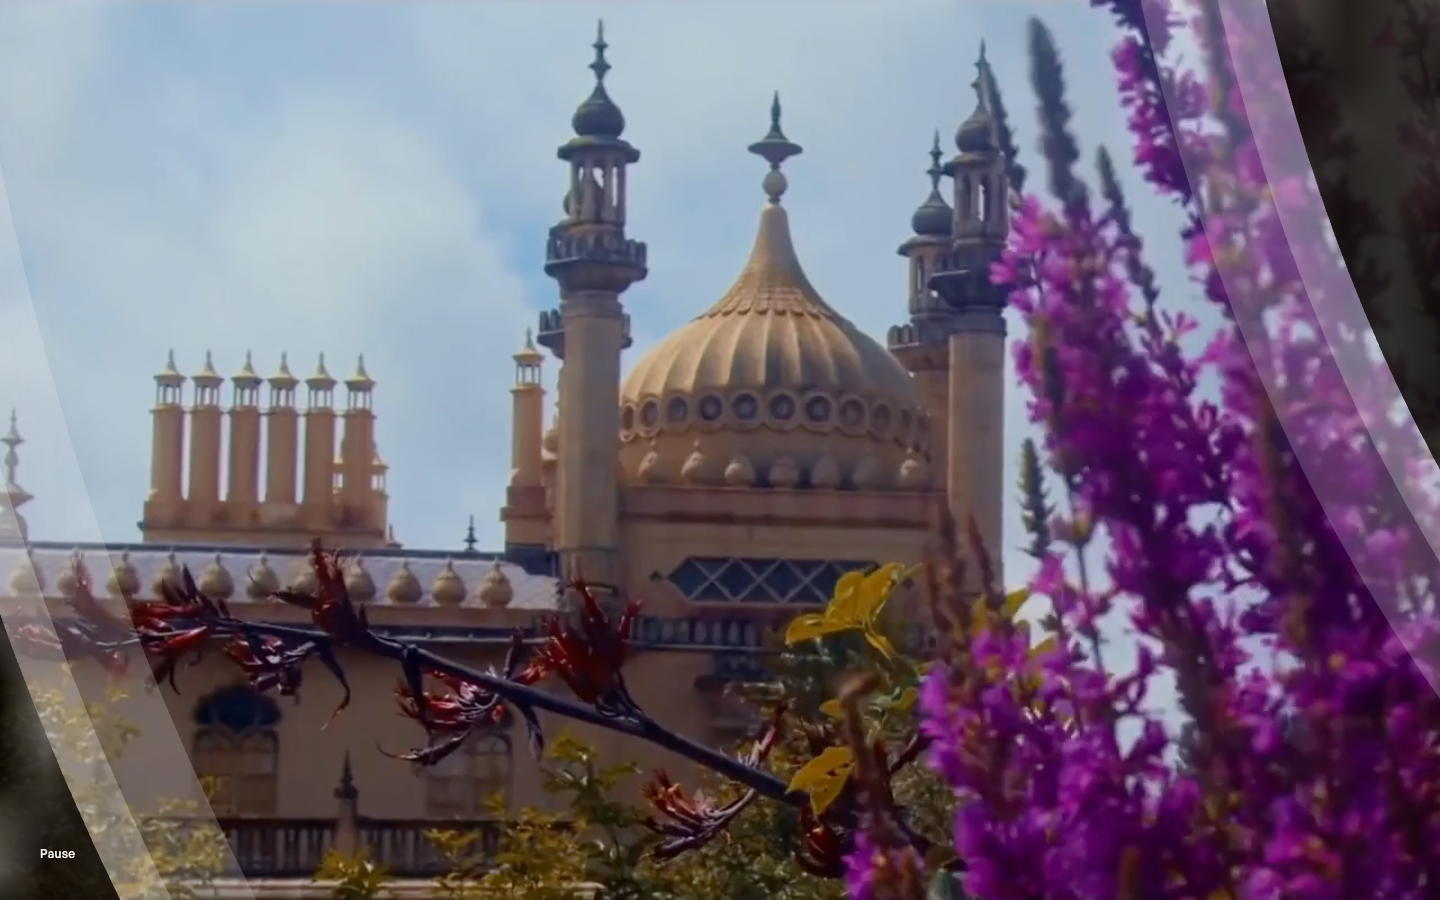
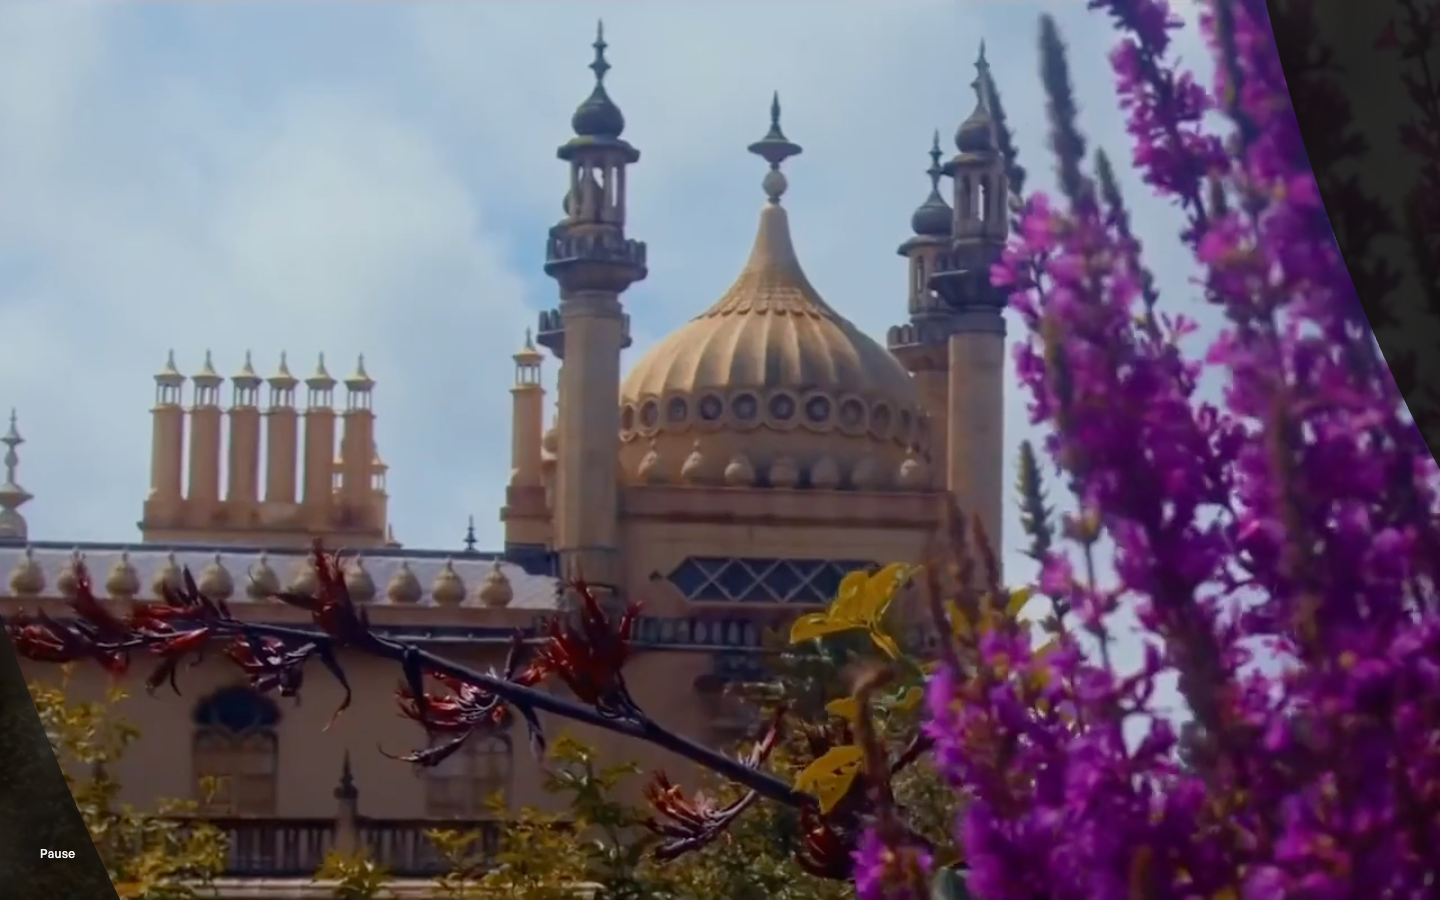
Anwar R18's three hero fixes, built by Nadir (R19 part 4, Opus). The pale letter lip fades out between p .32 and .40, the wall and the light spill drop into shadow from p .15 to .32 so the film is the brightest thing inside the O, and with reduced motion on a Play word shows bottom left (one press p

diff --git a/hero-journey.js b/hero-journey.js
@@ -23,6 +23,7 @@
   if(reduce||still){ reel.removeAttribute('autoplay'); reel.pause(); }
   function label(){ var v=cur(), on=!v.paused; btn.textContent=on?'Pause':'Play'; btn.setAttribute('aria-label',on?'Pause the film':'Play the film'); }
   [reel,lane].forEach(function(v){ v.addEventListener('play',label); v.addEventListener('pause',label); });
+  reel.addEventListener('play',function(){ if(J.mode!=='still') return; (function loop(){ if(reel.paused||J.mode!=='still') return; drawSpill(); requestAnimationFrame(loop); })(); });   /* R19: in reduced motion the spill follows the reel only while it plays */
   btn.addEventListener('click',function(){ var v=cur(); if(v.paused){ userPaused=false; v.play().catch(function(){}); } else { userPaused=true; v.pause(); } label(); });
   function want(v){ if(!userPaused&&seen&&!reduce&&!still) v.play().catch(function(){}); }
   if('IntersectionObserver' in window&&!still) new IntersectionObserver(function(es){ seen=es[0].isIntersecting; if(seen) want(cur()); else cur().pause(); },{threshold:0}).observe(stage);
@@ -48,6 +49,9 @@
     parts.cut.style.opacity=String(fade); parts.cut.style.visibility=fade>0?'visible':'hidden';
     parts.band.style.opacity=String(1-seg(p,.3,.38));   /* P3: was .35 to .5; a half-faded band read as grey veils over the film at .42, so it now clears in one short step as the camera passes through the wall */
     parts.band.style.transform='translate3d('+((3+sx*T*.6)*s).toFixed(2)+'px,'+((4+sy*T*.5)*s).toFixed(2)+'px,0)';
+    var dark=seg(p,.15,.32);   /* R19: the wall drops into shadow as the camera enters, so the film is the brightest thing and the raster's staircase sinks; the spill goes with it */
+    parts.wall.style.opacity=String(1-.75*dark); spill.style.opacity=String(SPILL*(1-dark));
+    parts.lip.style.opacity=String(lay.hollow.lip*(1-seg(p,.32,.40)));   /* R19: the lip fades before the zoom turns its rim into a pale glass band */
     J.s=s; J.e=e;
   }
   function setP(v){ J.p=v; apply(v); }
@@ -79,7 +83,7 @@
       mask=Cut.spillMask(lay,wc,Q,REACH); lastT=-1;
       cut.appendChild(pl.band); cut.appendChild(pl.face); cut.appendChild(spill); cut.appendChild(pl.top);
       host.innerHTML=''; host.appendChild(box);
-      parts={cut:cut,band:pl.band,face:pl.face,top:pl.top,all:pl.all};
+      parts={cut:cut,band:pl.band,face:pl.face,top:pl.top,lip:pl.lip,wall:pl.wall,all:pl.all};
       scene.classList.add('built'); J.hole=hole; J.S=S; J.lay={W:W,H:H,L6:lay.L6,o:lay.o}; J.check=spacingCheck();
       apply(J.p); drawSpill();
     });
@@ -93,7 +97,7 @@
   function tick(){ if(ptr.has&&J.p<.35){ var nx=sx+(ptr.x-sx)*.06, ny=sy+(ptr.y-sy)*.06; if(Math.abs(nx-sx)+Math.abs(ny-sy)>1e-4){ sx=nx; sy=ny; apply(J.p); } } drawSpill(); requestAnimationFrame(tick); }
 
   function start(){
-    if(reduce||still||!window.gsap||!window.ScrollTrigger){ root.classList.add('plate-still'); J.mode='still'; setP(0); label(); return; }
+    if(reduce||still||!window.gsap||!window.ScrollTrigger){ root.classList.add('plate-still'); if(still) root.classList.add('plate-render'); J.mode='still'; setP(0); label(); return; }   /* R19: only a full-page render (full=) hides the word; a reduced-motion visitor sees Play */
     root.classList.add('journey-on'); gsap.registerPlugin(ScrollTrigger);
     if(window.Lenis&&!render){ var lenis=new Lenis({lerp:.09,wheelMultiplier:.9}); lenis.on('scroll',ScrollTrigger.update); gsap.ticker.add(function(t){ lenis.raf(t*1000); }); gsap.ticker.lagSmoothing(0); J.lenis=true; }
     ScrollTrigger.create({trigger:scene,start:'top top',end:'bottom bottom',scrub:true,onUpdate:function(st){ setP(st.progress); }});

diff --git a/hero-cut.js b/hero-cut.js
@@ -102,7 +102,7 @@
     lay.rows.forEach(function(r){ var f=fontOf(r.font); r.toks.forEach(function(t){ if(t.k==='r') return;
       var e=el('text',{x:t.x,y:r.y,'font-family':f.f,'font-weight':f.w,'font-size':f.s,'letter-spacing':r.ls,fill:t.k==='g'?'#E27F22':'#F2F2F0','fill-opacity':t.k==='g'?1:t.a},top); e.textContent=t.t; }); });
     lay.who.forEach(function(wd){ var f=fontOf(wd.font), e=el('text',{x:wd.x,y:wd.y,'font-family':f.f,'font-weight':f.w,'font-size':f.s,'text-anchor':wd.align==='right'?'end':'start',fill:'#F2F2F0','fill-opacity':wd.a},top); e.textContent=wd.t; });
-    return {band:band,face:face,top:top,all:[band,face,top]};
+    return {band:band,face:face,top:top,lip:lg,wall:im,all:[band,face,top]};   /* R19: lip and wall returned so the journey can fade them (Anwar R18 fixes 1 and 2) */
   }
 
   /* the camera's way in: the thickest point of the O's cut stroke (two-pass chamfer distance inside the cut), and that point's clear radius */

diff --git a/hero-journey.css b/hero-journey.css
@@ -36,9 +36,8 @@ html.lenis,html.lenis body{height:auto}
   .scene[data-journey]{height:var(--sh)}
   .scene[data-journey] .after{--rev:1}
   .scene[data-journey] .after .word{display:none}
-  .hj-pause{display:none}
 }
 html.plate-still .scene[data-journey]{height:var(--sh)}
 html.plate-still .scene[data-journey] .after{--rev:1}
 html.plate-still .scene[data-journey] .after .word{display:none}
-html.plate-still .hj-pause{display:none}
+html.plate-still.plate-render .hj-pause{display:none}   /* R19: a full-page render only; a reduced-motion visitor keeps Play */

diff --git a/glowup-renders/r18/job/mk.py b/glowup-renders/r18/job/mk.py
@@ -1,9 +1,10 @@
 import json,sys
 out='/Users/asiffarid/Documents/apps/flowstateimpact-site-glowup/glowup-renders/r18'
 U='http://127.0.0.1:8791/index.html?render=1'
-EV="JSON.stringify({docW:document.documentElement.scrollWidth,iw:innerWidth,j:(()=>{const j=window.__journey||{};return {p:j.p&&+j.p.toFixed(3),mode:j.mode,past:j.past,s:j.s&&+j.s.toFixed(2),T:j.T,S:j.S&&+j.S.toFixed(1),hole:j.hole,check:j.check,err:j.error}})(),reel:(()=>{const v=document.getElementById('reel');return [v.currentSrc.split('/').pop(),v.paused,v.readyState,getComputedStyle(v).visibility]})(),lane:(()=>{const v=document.getElementById('lane');return [v.currentSrc.split('/').pop(),v.paused,v.readyState,getComputedStyle(v).visibility,v.preload]})(),btn:(()=>{const b=document.querySelector('.hj-pause');const r=b.getBoundingClientRect();return [b.textContent,Math.round(r.left),Math.round(r.top),getComputedStyle(b).display]})()})"
+EV="JSON.stringify({docW:document.documentElement.scrollWidth,iw:innerWidth,j:(()=>{const j=window.__journey||{};return {p:j.p&&+j.p.toFixed(3),mode:j.mode,past:j.past,s:j.s&&+j.s.toFixed(2),T:j.T,S:j.S&&+j.S.toFixed(1),hole:j.hole,plate:(()=>{const w=document.querySelector('.hj-face image'),l=document.querySelector('.hj-top g[clip-path]'),sp=document.querySelector('.cut .spill');return [w&&w.style.opacity,l&&l.style.opacity,sp&&sp.style.opacity,document.documentElement.className]})(),check:j.check,err:j.error}})(),reel:(()=>{const v=document.getElementById('reel');return [v.currentSrc.split('/').pop(),v.paused,v.readyState,getComputedStyle(v).visibility]})(),lane:(()=>{const v=document.getElementById('lane');return [v.currentSrc.split('/').pop(),v.paused,v.readyState,getComputedStyle(v).visibility,v.preload]})(),btn:(()=>{const b=document.querySelector('.hj-pause');const r=b.getBoundingClientRect();return [b.textContent,Math.round(r.left),Math.round(r.top),getComputedStyle(b).display,getComputedStyle(b).fontSize,Math.round(r.height)]})()})"
 shots={
  'load':dict(file='r18-1440-load.png',w=1440,h=900,wait=3500),
+ 'p20':dict(file='r18-1440-p20.png',w=1440,h=900,wait=3500,scroll=round(.20*1800)),
  'p30':dict(file='r18-1440-p30.png',w=1440,h=900,wait=3500,scroll=round(.30*1800)),
  'p42':dict(file='r18-1440-p42.png',w=1440,h=900,wait=3500,scroll=round(.42*1800)),
  'p88':dict(file='r18-1440-p88.png',w=1440,h=900,wait=3500,scroll=round(.88*1800),settle=2500),

diff --git a/glowup-renders/r18/NADIR-R18-V2.md b/glowup-renders/r18/NADIR-R18-V2.md
@@ -1,3 +1,28 @@
+# R19 PART 4: Anwar R18 hero fixes 1 to 3 and the smoothness check (31 Oct 2026, Nadir, Opus)
+
+Status: fixes built, eight frames at 0 errors, smoothness measured. Nothing committed, nothing pushed, media/ untouched. Files edited: hero-cut.js, hero-journey.js, hero-journey.css, glowup-renders/r18/job/mk.py.
+
+## The fixes, and what the frame shows now
+1. Lip fades .32 to .40. hero-cut.js:105 returns the lip group as lip; hero-journey.js:54 sets its opacity to lay.hollow.lip x (1 - seg(p,.32,.40)). r18-1440-p42: film to the dark edge, no pale band (lip opacity 0). r18-390-mid: the chocolate fills the frame, no pale arc. r18-1440-p30: rim still at full (lip .4, the load value).
+2. Wall and spill into shadow .15 to .32. hero-cut.js:105 returns the wall image as wall; hero-journey.js:52-53 wall opacity 1 - .75 x seg, spill .3 x (1 - seg). r18-1440-p30: walls either side near black (wall .34, spill .035), faint diagonal comb, the dome film the brightest thing. r18-1440-p20: wall .78, comb clearly visible and still soft-stepped at 6.7x zoom; at p .10 the segment has not started, so the comb reads as at load.
+3. Reduced motion shows Play. hero-journey.css: the @media hide deleted; line 43 now html.plate-still.plate-render .hj-pause. hero-journey.js:100 adds plate-render only when still (the full= page render). Kept Anwar's if(still), not "render=1 too": the reduce frame is render=1, so that would hide Play. r18-1440-reduce: "Play" bottom left, 12px = --small. Press test (headless, reduced motion): Play, paused at 0 s; one press: Pause, reel playing at 1.5 s; second press: Play, paused; scrollY 0 and viewBox unchanged throughout. Extra, hero-journey.js:26: in reduced motion the light spill follows the reel only while it plays (no scroll, no zoom).
+- Pause size: computed 12px = --small at 1440 and 390 (the button box is 24px with its padding). No change needed.
+
+## Smoothness (headless Chrome, Lenis on, no render=1, wheel events through the protocol, two passes top to footer, frames between p .1 and .7)
+- 1440x900, real GPU, run 1: pass 1 longest 150 ms at p .19, 3 frames over 50 ms; pass 2 longest 16.8 ms, 0 over 50.
+- 1440x900, real GPU, run 2 with long-animation-frame logging: both passes longest 16.8 ms, 0 over 50, no long frame logged. The run 1 spike did not repeat and has no attribution: read as a cold first pass, not hero-journey.js (script is about 500 ms across 28 s of scrolling).
+- 390x844 dpr 2, real GPU: longest 50.0 ms on both passes, 0 over 50, 2 to 3 frames over 33 ms; median 16.5 to 16.7 ms.
+- Software GL (swiftshader): median 66 to 183 ms, CPU drawing, not a laptop; not the verdict.
+- Not done: a real Chrome window and the Performance panel on a laptop GPU.
+
+## Renders (all 0 console errors, docW = screen)
+r18-1440-load, r18-1440-p20 (new key in mk.py), r18-1440-p30, r18-1440-p42, r18-390-load, r18-390-mid, r18-1440-reduce, r18-1440-p92. Each looked at. mk.py's eval now reports wall, lip and spill opacity and the button's size.
+
+## Self-grade
+Fixes 1 to 3 each proven by a named frame: yes. Check 4 has numbers: yes, headless only. What must not change: load frames unchanged (opacities 1 / .4 / .3 at p 0), DARE the only orange, T 7.48 and 2.77, band fade .3 to .38, hard cut at .9, lane preload none at load, Pause a word, FILM bottom left clear of her face at p92. Etch and --plate-see not touched.
+
+---
+
 # R18 PART 3: V2 HERO FINISHED, NINE FRAMES LOOKED AT (Nadir, Opus, 31 Oct 2026)
 Status: six steps done. Nothing committed or pushed, media/ untouched, no ffmpeg, labels still placeholders.
 
